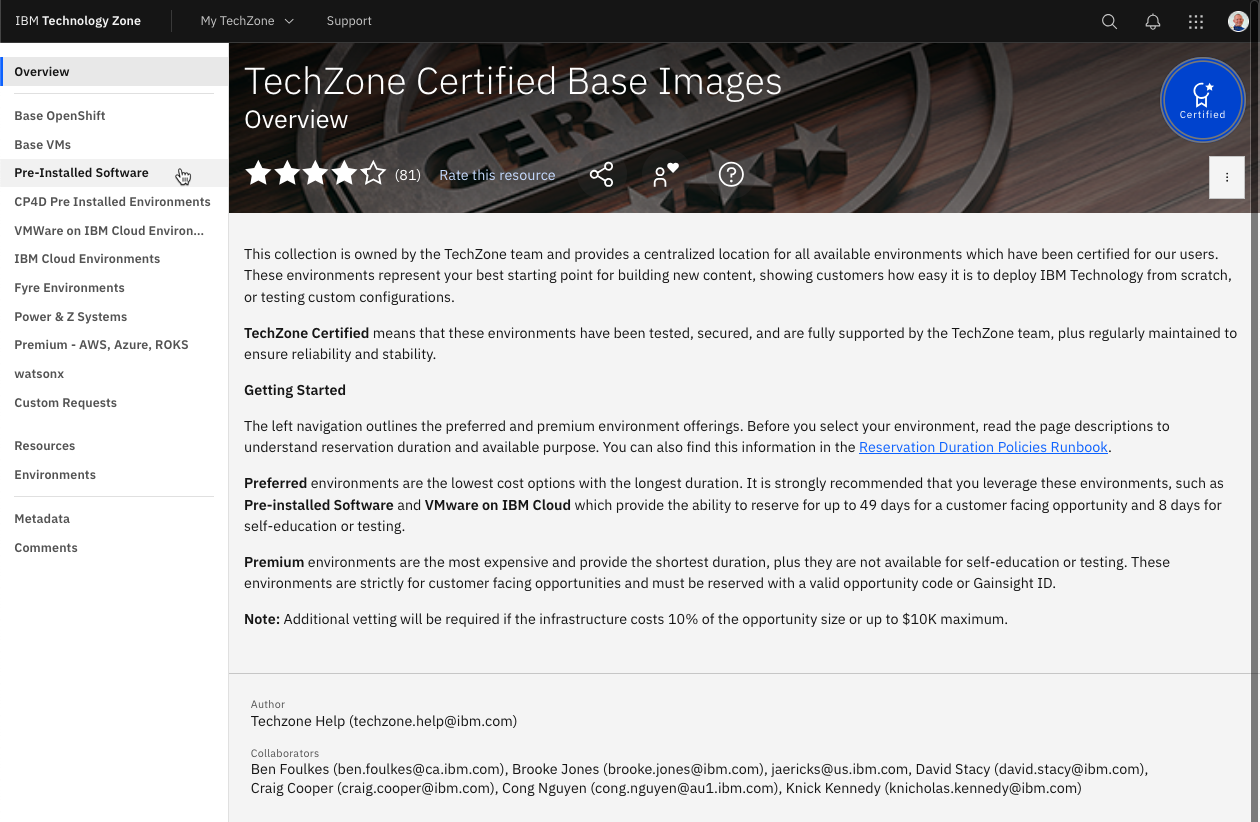
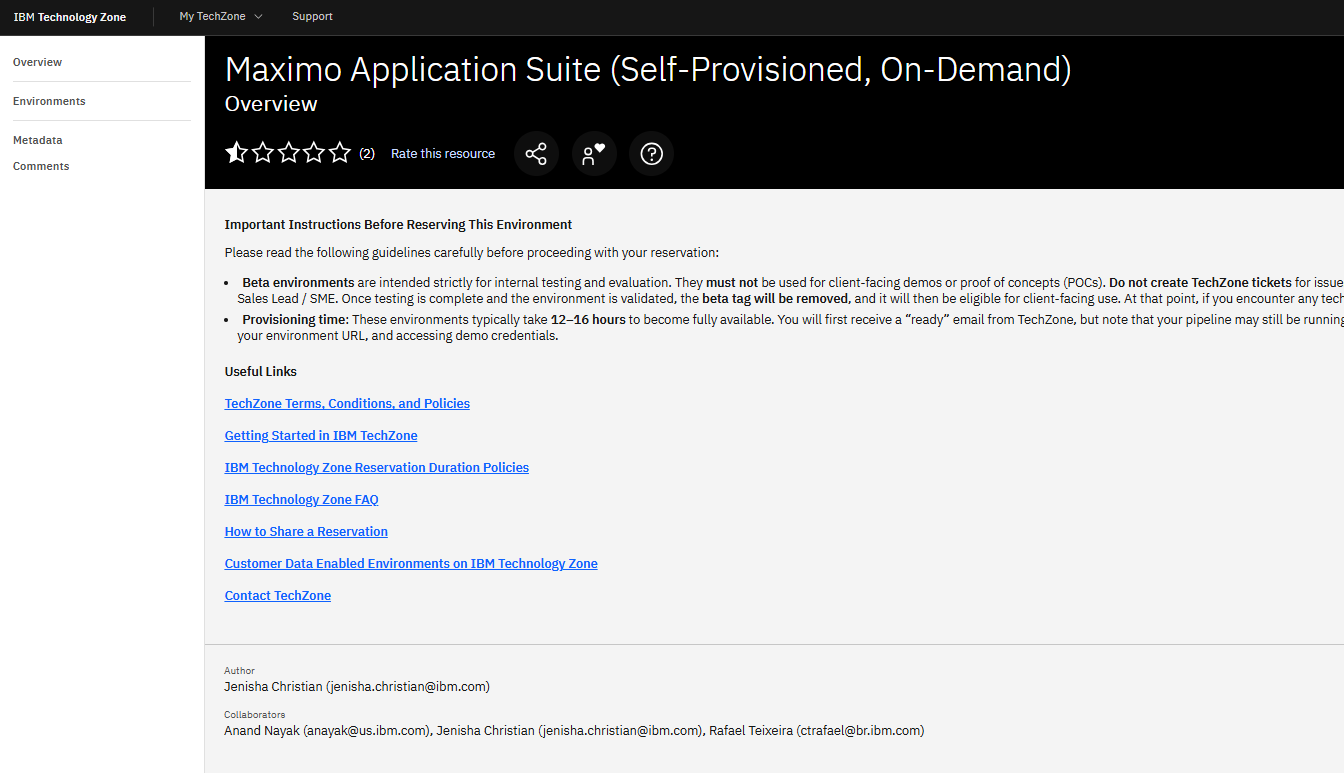
更新文档和图片资源
- 更新 MAS TechZone Base 实例化文档和相关截图
- 更新 Monitor Managed Gateway JSON 9.1 设备添加和网关创建文档
- 更新模拟器设置文档
- 更新 Monitor Managed Gateway Modbus 9.1 监控指标截图
- 更新顶层索引页面

diff --git a/MkDocs/toplevel/docs/index.md b/MkDocs/toplevel/docs/index.md
@@ -33,26 +33,7 @@
 
 | 实验&emsp;&emsp;&emsp;&emsp;&emsp;&emsp;&emsp;&emsp;&emsp;&emsp;&emsp;&emsp;&emsp;&emsp;&emsp;&emsp;&emsp;&emsp;&emsp;&emsp;&emsp;&emsp;&emsp;&emsp;&emsp;&emsp;&emsp;&emsp;&emsp;&emsp;&emsp;&emsp;&emsp;| 练习&emsp;&emsp;&emsp;&emsp;&emsp;&emsp;&emsp;&emsp;&emsp;&emsp;&emsp;&emsp;&emsp;&emsp;&emsp;&emsp;&emsp;&emsp;&emsp;&emsp;&emsp;&emsp;&emsp;&emsp;&emsp;&emsp;&emsp;&emsp;&emsp;&emsp;&emsp;&emsp;&emsp;&emsp;&emsp;&emsp;&emsp;&emsp;&emsp;&emsp;&emsp;&emsp;&emsp;&emsp;&emsp;&emsp;&emsp;&emsp;&emsp;&emsp;&emsp;&emsp;&emsp;&emsp;|
 |----------------------------------------------------------------|------------------------------------------------------------------------------------|
-| [Maximo Monitor Cisco Spaces 集成](monitor_cisco_spaces_integration_9.1/) | [Cisco Spaces 概述](monitor_cisco_spaces_integration_9.1/cisco_spaces_overview) |
-|                                                                | [生成激活令牌](monitor_cisco_spaces_integration_9.1/generate_activation_token)           |
-|                                                                | [配置 Cisco Spaces 集成](monitor_cisco_spaces_integration_9.1/cisco_spaces_integration)   |
-|                                                                | [位置列表概述](monitor_cisco_spaces_integration_9.1/locations_list)                        |
-|                                                                | [订阅 Cisco Space 位置](monitor_cisco_spaces_integration_9.1/subscribe)                      |
-|                                                                | [Cisco Spaces 位置指标](monitor_cisco_spaces_integration_9.1/location_metrics)                |
-|                                                                | [在 MREF 位置生成热图](monitor_cisco_spaces_integration_9.1/heatmap)                     |
-|                                                                | [取消订阅 Cisco Space 位置](monitor_cisco_spaces_integration_9.1/unsubscribe)                  |
-|                                                                | [编辑/删除 Cisco Spaces 配置](monitor_cisco_spaces_integration_9.1/edit_delete_config)   |
 
-| 实验&emsp;&emsp;&emsp;&emsp;&emsp;&emsp;&emsp;&emsp;&emsp;&emsp;&emsp;&emsp;&emsp;&emsp;&emsp;&emsp;&emsp;&emsp;&emsp;&emsp;&emsp;&emsp;&emsp;&emsp;&emsp;&emsp;&emsp;&emsp;&emsp;&emsp;&emsp;&emsp;&emsp;| 练习&emsp;&emsp;&emsp;&emsp;&emsp;&emsp;&emsp;&emsp;&emsp;&emsp;&emsp;&emsp;&emsp;&emsp;&emsp;&emsp;&emsp;&emsp;&emsp;&emsp;&emsp;&emsp;&emsp;&emsp;&emsp;&emsp;&emsp;&emsp;&emsp;&emsp;&emsp;&emsp;&emsp;&emsp;&emsp;&emsp;&emsp;&emsp;&emsp;&emsp;&emsp;&emsp;&emsp;&emsp;&emsp;&emsp;&emsp;&emsp;&emsp;&emsp;&emsp;&emsp;&emsp;&emsp;|
-|----------------------------------------------------------------|------------------------------------------------------------------------------------|
-| [Maximo Monitor 房地产和设施集成](monitor_MREF_integration_9.1/) | [配置 Maximo 房地产和设施](monitor_MREF_integration_9.1/configure_MREF) |
-|                                                                | [Maximo 房地产和设施建筑](monitor_MREF_integration_9.1/mref_buildings)                         |
-|                                                                | [Maximo 房地产和设施位置详情](monitor_MREF_integration_9.1/mref_location_details)           |
-|                                                                | [工作场所分析仪表板](monitor_MREF_integration_9.1/workplace_dashboard)                                 |
-|                                                                | [清理](monitor_MREF_integration_9.1/cleanup)                                                                   |
-
-| 实验&emsp;&emsp;&emsp;&emsp;&emsp;&emsp;&emsp;&emsp;&emsp;&emsp;&emsp;&emsp;&emsp;&emsp;&emsp;&emsp;&emsp;&emsp;&emsp;&emsp;&emsp;&emsp;&emsp;&emsp;&emsp;&emsp;&emsp;&emsp;&emsp;&emsp;&emsp;&emsp;&emsp;| 练习&emsp;&emsp;&emsp;&emsp;&emsp;&emsp;&emsp;&emsp;&emsp;&emsp;&emsp;&emsp;&emsp;&emsp;&emsp;&emsp;&emsp;&emsp;&emsp;&emsp;&emsp;&emsp;&emsp;&emsp;&emsp;&emsp;&emsp;&emsp;&emsp;&emsp;&emsp;&emsp;&emsp;&emsp;&emsp;&emsp;&emsp;&emsp;&emsp;&emsp;&emsp;&emsp;&emsp;&emsp;&emsp;&emsp;&emsp;&emsp;&emsp;&emsp;&emsp;&emsp;&emsp;&emsp;|
-|----------------------------------------------------------------|------------------------------------------------------------------------------------|
 | [Maximo Monitor 基于角色的访问控制](monitor_role_based_access_control_9.1/)  | [创建安全组](monitor_role_based_access_control_9.1/create_security_groups) |
 |                                                                | [创建用户并分配组](monitor_role_based_access_control_9.1/create_users)                        |
 |                                                                | [登录和访问行为](monitor_role_based_access_control_9.1/user_access_behavior)                     |
@@ -93,15 +74,7 @@
 
 | 实验&emsp;&emsp;&emsp;&emsp;&emsp;&emsp;&emsp;&emsp;&emsp;&emsp;&emsp;&emsp;&emsp;&emsp;&emsp;&emsp;&emsp;&emsp;&emsp;&emsp;&emsp;&emsp;&emsp;&emsp;&emsp;&emsp;&emsp;&emsp;&emsp;&emsp;&emsp;&emsp;&emsp;| 练习&emsp;&emsp;&emsp;&emsp;&emsp;&emsp;&emsp;&emsp;&emsp;&emsp;&emsp;&emsp;&emsp;&emsp;&emsp;&emsp;&emsp;&emsp;&emsp;&emsp;&emsp;&emsp;&emsp;&emsp;&emsp;&emsp;&emsp;&emsp;&emsp;&emsp;&emsp;&emsp;&emsp;&emsp;&emsp;&emsp;&emsp;&emsp;&emsp;&emsp;&emsp;&emsp;&emsp;&emsp;&emsp;&emsp;&emsp;&emsp;&emsp;&emsp;&emsp;&emsp;&emsp;&emsp;|
 |----------------------------------------------------------------|------------------------------------------------------------------------------------|
-| [Maximo Monitor Cisco Webex 集成](monitor_cisco_webex_integration_9.1/) | [使用 Cisco Webex 设备的概述和目的](monitor_cisco_webex_integration_9.1/overview) |
-|                                                                | [在 MAS Monitor 中集成 Cisco Webex 设备](monitor_cisco_webex_integration_9.1/create_integration)            |
-|                                                                | [订阅 Cisco Webex 设备](monitor_cisco_webex_integration_9.1/add_device)                              |
-|                                                                | [将 Cisco Webex 设备分配到位置](monitor_cisco_webex_integration_9.1/assign_location)                   |
-|                                                                | [取消订阅 Cisco Webex 设备](monitor_cisco_webex_integration_9.1/unsubscribe_device)                         |
-|                                                                | [删除 Cisco Webex 配置](monitor_cisco_webex_integration_9.1/delete_integartion)                       |
 
-| 实验&emsp;&emsp;&emsp;&emsp;&emsp;&emsp;&emsp;&emsp;&emsp;&emsp;&emsp;&emsp;&emsp;&emsp;&emsp;&emsp;&emsp;&emsp;&emsp;&emsp;&emsp;&emsp;&emsp;&emsp;&emsp;&emsp;&emsp;&emsp;&emsp;&emsp;&emsp;&emsp;&emsp;| 练习&emsp;&emsp;&emsp;&emsp;&emsp;&emsp;&emsp;&emsp;&emsp;&emsp;&emsp;&emsp;&emsp;&emsp;&emsp;&emsp;&emsp;&emsp;&emsp;&emsp;&emsp;&emsp;&emsp;&emsp;&emsp;&emsp;&emsp;&emsp;&emsp;&emsp;&emsp;&emsp;&emsp;&emsp;&emsp;&emsp;&emsp;&emsp;&emsp;&emsp;&emsp;&emsp;&emsp;&emsp;&emsp;&emsp;&emsp;&emsp;&emsp;&emsp;&emsp;&emsp;&emsp;&emsp;|
-|----------------------------------------------------------------|---------------------------------------------------------------------------------------|
 | [Maximo Monitor 仪表-指标映射](monitor_meter_metric_mapping_9.1/) | [设置仪表/指标映射](monitor_meter_metric_mapping_9.1/setup)       |
 |                                                                | [在 Manage UI 中查看仪表数据](monitor_meter_metric_mapping_9.1/view_meter_data/) |
 |                                                                | [切换同步启用/禁用](monitor_meter_metric_mapping_9.1/toggle_sync)            |
@@ -139,7 +112,35 @@
 |----------------------------------------------------------------|------------------------------------------------------------------------------------|
 | [Maximo Monitor Modbus 模拟器](monitor_modbus_simulator/)   | [使用 Docker 镜像](monitor_modbus_simulator/docker)                            |
 |                                                                | [使用 Node-RED 脚本](monitor_modbus_simulator/node-red)                       |
+| [Maximo Monitor Cisco Spaces 集成](monitor_cisco_spaces_integration_9.1/) | [Cisco Spaces 概述](monitor_cisco_spaces_integration_9.1/cisco_spaces_overview) |
+|                                                                | [生成激活令牌](monitor_cisco_spaces_integration_9.1/generate_activation_token)           |
+|                                                                | [配置 Cisco Spaces 集成](monitor_cisco_spaces_integration_9.1/cisco_spaces_integration)   |
+|                                                                | [位置列表概述](monitor_cisco_spaces_integration_9.1/locations_list)                        |
+|                                                                | [订阅 Cisco Space 位置](monitor_cisco_spaces_integration_9.1/subscribe)                      |
+|                                                                | [Cisco Spaces 位置指标](monitor_cisco_spaces_integration_9.1/location_metrics)                |
+|                                                                | [在 MREF 位置生成热图](monitor_cisco_spaces_integration_9.1/heatmap)                     |
+|                                                                | [取消订阅 Cisco Space 位置](monitor_cisco_spaces_integration_9.1/unsubscribe)                  |
+|                                                                | [编辑/删除 Cisco Spaces 配置](monitor_cisco_spaces_integration_9.1/edit_delete_config)   |
 
+| 实验&emsp;&emsp;&emsp;&emsp;&emsp;&emsp;&emsp;&emsp;&emsp;&emsp;&emsp;&emsp;&emsp;&emsp;&emsp;&emsp;&emsp;&emsp;&emsp;&emsp;&emsp;&emsp;&emsp;&emsp;&emsp;&emsp;&emsp;&emsp;&emsp;&emsp;&emsp;&emsp;&emsp;| 练习&emsp;&emsp;&emsp;&emsp;&emsp;&emsp;&emsp;&emsp;&emsp;&emsp;&emsp;&emsp;&emsp;&emsp;&emsp;&emsp;&emsp;&emsp;&emsp;&emsp;&emsp;&emsp;&emsp;&emsp;&emsp;&emsp;&emsp;&emsp;&emsp;&emsp;&emsp;&emsp;&emsp;&emsp;&emsp;&emsp;&emsp;&emsp;&emsp;&emsp;&emsp;&emsp;&emsp;&emsp;&emsp;&emsp;&emsp;&emsp;&emsp;&emsp;&emsp;&emsp;&emsp;&emsp;|
+|----------------------------------------------------------------|------------------------------------------------------------------------------------|
+| [Maximo Monitor 房地产和设施集成](monitor_MREF_integration_9.1/) | [配置 Maximo 房地产和设施](monitor_MREF_integration_9.1/configure_MREF) |
+|                                                                | [Maximo 房地产和设施建筑](monitor_MREF_integration_9.1/mref_buildings)                         |
+|                                                                | [Maximo 房地产和设施位置详情](monitor_MREF_integration_9.1/mref_location_details)           |
+|                                                                | [工作场所分析仪表板](monitor_MREF_integration_9.1/workplace_dashboard)                                 |
+|                                                                | [清理](monitor_MREF_integration_9.1/cleanup)                                                                   |
+
+| 实验&emsp;&emsp;&emsp;&emsp;&emsp;&emsp;&emsp;&emsp;&emsp;&emsp;&emsp;&emsp;&emsp;&emsp;&emsp;&emsp;&emsp;&emsp;&emsp;&emsp;&emsp;&emsp;&emsp;&emsp;&emsp;&emsp;&emsp;&emsp;&emsp;&emsp;&emsp;&emsp;&emsp;| 练习&emsp;&emsp;&emsp;&emsp;&emsp;&emsp;&emsp;&emsp;&emsp;&emsp;&emsp;&emsp;&emsp;&emsp;&emsp;&emsp;&emsp;&emsp;&emsp;&emsp;&emsp;&emsp;&emsp;&emsp;&emsp;&emsp;&emsp;&emsp;&emsp;&emsp;&emsp;&emsp;&emsp;&emsp;&emsp;&emsp;&emsp;&emsp;&emsp;&emsp;&emsp;&emsp;&emsp;&emsp;&emsp;&emsp;&emsp;&emsp;&emsp;&emsp;&emsp;&emsp;&emsp;&emsp;|
+|----------------------------------------------------------------|------------------------------------------------------------------------------------|
+| [Maximo Monitor Cisco Webex 集成](monitor_cisco_webex_integration_9.1/) | [使用 Cisco Webex 设备的概述和目的](monitor_cisco_webex_integration_9.1/overview) |
+|                                                                | [在 MAS Monitor 中集成 Cisco Webex 设备](monitor_cisco_webex_integration_9.1/create_integration)            |
+|                                                                | [订阅 Cisco Webex 设备](monitor_cisco_webex_integration_9.1/add_device)                              |
+|                                                                | [将 Cisco Webex 设备分配到位置](monitor_cisco_webex_integration_9.1/assign_location)                   |
+|                                                                | [取消订阅 Cisco Webex 设备](monitor_cisco_webex_integration_9.1/unsubscribe_device)                         |
+|                                                                | [删除 Cisco Webex 配置](monitor_cisco_webex_integration_9.1/delete_integartion)                       |
+
+| 实验&emsp;&emsp;&emsp;&emsp;&emsp;&emsp;&emsp;&emsp;&emsp;&emsp;&emsp;&emsp;&emsp;&emsp;&emsp;&emsp;&emsp;&emsp;&emsp;&emsp;&emsp;&emsp;&emsp;&emsp;&emsp;&emsp;&emsp;&emsp;&emsp;&emsp;&emsp;&emsp;&emsp;| 练习&emsp;&emsp;&emsp;&emsp;&emsp;&emsp;&emsp;&emsp;&emsp;&emsp;&emsp;&emsp;&emsp;&emsp;&emsp;&emsp;&emsp;&emsp;&emsp;&emsp;&emsp;&emsp;&emsp;&emsp;&emsp;&emsp;&emsp;&emsp;&emsp;&emsp;&emsp;&emsp;&emsp;&emsp;&emsp;&emsp;&emsp;&emsp;&emsp;&emsp;&emsp;&emsp;&emsp;&emsp;&emsp;&emsp;&emsp;&emsp;&emsp;&emsp;&emsp;&emsp;&emsp;&emsp;|
+|----------------------------------------------------------------|---------------------------------------------------------------------------------------|
 
 ### Maximo Application Suite 9.0
 

diff --git a/MkDocs/monitor_managed_gw_json_9.1/docs/add_device_1.md b/MkDocs/monitor_managed_gw_json_9.1/docs/add_device_1.md
@@ -21,20 +21,20 @@
 ![导航到设备库](img/device_library_01.png)</br>
 
 - 可以使用 CSV 文件格式的设备设置添加 Modbus 设备。</br>
-点击 `Add device to library` 并选择 `Import device settings` 选项：</br>
+点击 `将设备添加到库` 并选择 `导入设备设置` 选项：</br>
 ![导入设备设置](img/device_library_02.png)</br>
 
 - 选择协议为 `JSON Over HTTP`</br>
 ![导入设备设置](img/device_library_03.png)</br>
 
-- 输入设备详细信息并点击 `Next`：</br>
+- 输入设备详细信息并点击 `下一步`：</br>
 ![导入设备设置](img/device_library_04.png)</br>
 
 !!! tip
     * 如果在选项中找不到制造商，可以添加新制造商。
     * 如果其他人在同一 Maximo Application Suite 环境中遵循本实验，设备名称中的 XX 应该是您的首字母缩写。
 
-- 下载 `example.xlsx file`</br>
+- 下载 `.xlsx文件示例`</br>
 ![导入设备设置](img/device_library_05.png)</br>
 
 - 打开 Excel 文件以在 `metrics` 工作表中填写数据点，模板中的每一列都提供了有关其目的的上下文以及完成相应单元格值的说明。重要的是要注意，CSV 中的每一行代表一个 json-over-http 数据点。
@@ -71,10 +71,10 @@
 
 ![导入设备设置](img/device_library_13.png)</br>
 
-- 上传 CSV 文件并选择 `Next`
+- 上传 CSV 文件并选择 `下一步`
 ![导入设备设置](img/device_library_14.png)</br>
 
-- 您可以看到数据点的摘要，如果需要，您可以在此处删除指标。完成后点击 `Finish`：</br>
+- 您可以看到数据点的摘要，如果需要，您可以在此处删除指标。完成后点击 `完成`：</br>
 ![导入设备设置](img/device_library_15.png)</br>
 
 !!! attention

diff --git a/MkDocs/mas_techzone_base/docs/instantiate.md b/MkDocs/mas_techzone_base/docs/instantiate.md
@@ -16,17 +16,18 @@
 !!! note "请记住"
     请记住，TechZone 仅适用于拥有 IBMid 的 IBM 业务合作伙伴和 IBM 员工。
 
-搜索 `TechZone Certified Base Images`，您将找到此页面：</br>
+搜索 `Maximo Application Suite (Self-Provisioned, On-Demand)
+`，然后点击 `Maximo Application Suite (Self-Provisioned, On-Demand)
+`，您将找到此页面：</br>
 
 ![TechZone](img/instantiate_01.png)</br></br>
 
-选择 `Pre-Installed Software` 选项卡。</br>
-向下滚动直到找到 Maximo Application Suite 镜像。</br>
-目前（2025年5月30日）9.0.x 版本存在以下两个镜像：</br>
+选择 `Environments` 选项卡。</br>
+目前（2026年04月28日）9.1.x 版本存在以下四个镜像：</br>
 
 ![MAS Images](img/instantiate_02.png)</br></br>
 
-点击 `OCP-V on IBM Cloud environment` 以实例化其中一个。本实验中使用了 `MAS V2 Core` 镜像，因为它的部署时间要短得多。点击 `Reserve a environment`：
+点击其中一个，以实例化对应的环境。本实验中使用了 ` Maximo IT` 镜像，因为它的部署时间要短得多。点击 `Reserve a environment`：
 
 ![Reservation Now](img/instantiate_03.png)</br></br>
 
@@ -62,7 +63,7 @@
 
 ![Reservation Ready](img/instantiate_10.png)</br></br>
 
-在本例中，实例化 `MAS V2 Core` 镜像只花了大约 1.5 小时：</br>
+在本例中，实例化 ` Maximo IT` 镜像花了大约 3.5 小时：</br>
 
 ![Reservation Provisioning Emails](img/instantiate_11.png)</br></br>
 

diff --git a/MkDocs/monitor_managed_gw_json_9.1/docs/create_gateway.md b/MkDocs/monitor_managed_gw_json_9.1/docs/create_gateway.md
@@ -22,7 +22,7 @@
     Monitor 不再有主主页。与 Monitor 的所有交互都从左侧菜单的 Monitor 部分启动</br>
 
 </br>
-选择 `Add gateway`：
+选择 `添加网关`：
 ![创建网关](img/create_gateway_03.png)</br></br>
 
 定义网关 ID `XX_MGD_GW_01` 和网关类型 `XX_MGD_GW_01`。
